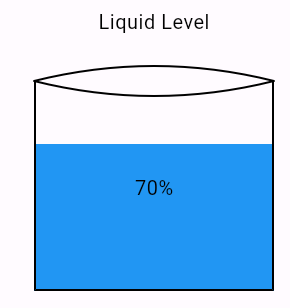
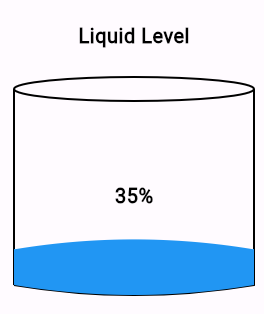
cylinder fine tune

diff --git a/lib/level/widgets/cylinder_tank.dart b/lib/level/widgets/cylinder_tank.dart
@@ -1,4 +1,3 @@
-
 import 'package:flutter/material.dart';
 
 class CylinderTank extends StatelessWidget {
@@ -11,29 +10,23 @@ class CylinderTank extends StatelessWidget {
   final bool shouldAnimate;
   final double fontSize;
   final Color fontColor;
-
+  final FontWeight fontWeight;
   const CylinderTank(
       {super.key,
-      this.height = 200,
-      this.width = 200,
+      this.height = 150,
+      this.width = 150,
       required this.liquidLevel,
       this.liquidColor = Colors.lightBlue,
       this.bottleColor = Colors.black,
       this.shouldAnimate = false,
       this.fontSize = 12,
       this.fontColor = Colors.black,
-      required this.label});
+      required this.label,
+      this.fontWeight = FontWeight.bold});
 
   @override
   Widget build(BuildContext context) {
-    double liqlvl() {
-      double lq = liquidLevel >= 100
-          ? 100
-          : liquidLevel <= 0
-              ? 0
-              : liquidLevel;
-      return lq;
-    }
+  
 
     var top = EyeShapeContainer.opened;
     return Column(
@@ -41,7 +34,8 @@ class CylinderTank extends StatelessWidget {
       children: [
         Text(
           label,
-          style: TextStyle(color: fontColor, fontSize: fontSize),
+          style: TextStyle(
+              color: fontColor, fontSize: fontSize, fontWeight: fontWeight),
         ),
         const SizedBox(
           height: 8,
@@ -52,40 +46,39 @@ class CylinderTank extends StatelessWidget {
           child: Stack(
             alignment: Alignment.bottomCenter,
             children: [
-              Container(
-                height: (liqlvl() / 100) * (height - top),
-                color: liquidColor,
-              ),
               Positioned(
                   bottom: height - (top + top / 2),
                   child: EyeShapeContainer(
                     width: width,
                     topColor: bottleColor,
                   )),
-              Container(
+              TankBody(
+                color: bottleColor,
                 height: height - top,
-                decoration: BoxDecoration(
-                  border: Border(
-                    bottom: BorderSide(
-                      color: bottleColor,
-                      width: 1.0,
-                    ),
-                    left: BorderSide(
-                      color: bottleColor,
-                      width: 1.0,
-                    ),
-                    right: BorderSide(
-                      color: bottleColor,
-                      width: 1.0,
-                    ),
-                  ),
-                ),
+                width: width,
               ),
+              liquidLevel >= 15
+                  ? TankLiq(
+                      liquidColor: liquidColor,
+                      width: width,
+                      liquidLevel: (liqlvl() / 100) * (height - top),
+                      lq: liquidLevel,
+                    )
+                  : Container(
+                      margin: const EdgeInsets.only(bottom: 8),
+                      height: liquidLevel >= 10
+                          ? 5
+                          : liquidLevel <= 0
+                              ? 0
+                              : 3,
+                      color: liquidColor,
+                      width: width / 2,
+                    ),
               Positioned(
                 bottom: height / 2 - top,
                 child: Text(
                   '${liqlvl()}%',
-                  style: TextStyle(color: fontColor, fontSize: fontSize),
+                  style: TextStyle(color: fontColor, fontSize: fontSize,fontWeight: fontWeight),
                 ),
               )
             ],
@@ -94,10 +87,24 @@ class CylinderTank extends StatelessWidget {
       ],
     );
   }
+
+    double liqlvl() {
+      double lq = liquidLevel >= 100
+          ? 100
+          : liquidLevel <= 0
+              ? 0
+              : liquidLevel;
+      return lq;
+    }
 }
 
+
+
+//=============================================
+// Top Open
+
 class EyeShapeContainer extends StatelessWidget {
-  static double opened = 15;
+  static double opened = 12;
   final double width;
   final Color topColor;
   const EyeShapeContainer(
@@ -176,44 +183,141 @@ class EyeShapeBorderPainter extends CustomPainter {
       ..strokeWidth = 1.0;
 
     var path = Path();
-
-    path.moveTo(0, size.height / 2);
-
-    path.quadraticBezierTo(
-      size.width / 4,
-      0,
-      size.width / 2,
-      0,
-    );
-
-    path.quadraticBezierTo(
-      size.width * 3 / 4,
-      0,
-      size.width,
-      size.height / 2,
-    );
-
-    path.quadraticBezierTo(
-      size.width * 3 / 4,
-      size.height,
-      size.width / 2,
-      size.height,
-    );
-
-    path.quadraticBezierTo(
-      size.width / 4,
-      size.height,
-      0,
-      size.height / 2,
-    );
-
-    path.close();
-
+    path.addOval(Rect.fromLTWH(0, 0, size.width, size.height));
     canvas.drawPath(path, paint);
   }
 
   @override
   bool shouldRepaint(CustomPainter oldDelegate) {
     return false;
+  }
+}
+
+
+
+
+//========================================
+// Liquid widget
+
+class TankLiq extends StatelessWidget {
+  final double width;
+  final double liquidLevel;
+  final double lq;
+  final Color liquidColor;
+
+  const TankLiq({
+    super.key,
+    required this.width,
+    required this.liquidLevel,
+    required this.liquidColor,
+    required this.lq,
+  });
+  @override
+  Widget build(BuildContext context) {
+    return Container(
+      margin: EdgeInsets.only(bottom: liquidLevel <= 10 ? 3 : 0),
+      width: width,
+      height: liquidLevel,
+      child: CustomPaint(
+        painter: CurvedBorderPainter(liquidLevel, lq, liquidColor),
+      ),
+    );
+  }
+}
+
+class CurvedBorderPainter extends CustomPainter {
+  final double liqlvl;
+  final double lq;
+  final Color liquidColor;
+
+  CurvedBorderPainter(this.liqlvl, this.lq, this.liquidColor);
+  @override
+  void paint(Canvas canvas, Size size) {
+    final paint = Paint()
+      ..color = liquidColor
+      ..style = PaintingStyle.fill;
+
+    final path = Path()
+      ..moveTo(0, 10)
+      ..quadraticBezierTo(size.width / 2, 0, size.width, 10)
+      ..lineTo(size.width, size.height - 10)
+      ..quadraticBezierTo(size.width / 2, size.height, 0, size.height - 10)
+      ..close();
+    if (lq >= 13) {
+      canvas.drawPath(path, paint);
+    }
+  }
+
+  @override
+  bool shouldRepaint(CustomPainter oldDelegate) {
+    return false;
+  }
+}
+
+//========================================
+// Tank Body widget
+
+class TankBody extends StatelessWidget {
+  final double height;
+  final double width;
+  final Color color;
+
+  const TankBody(
+      {super.key,
+      required this.height,
+      required this.width,
+      required this.color});
+
+  @override
+  Widget build(BuildContext context) {
+    return Container(
+      width: width,
+      height: height,
+      child: CustomPaint(
+        painter: CurvedBorderPainters(color),
+      ),
+    );
+  }
+}
+
+class CurvedBorderPainters extends CustomPainter {
+  final Color color;
+
+  CurvedBorderPainters(this.color);
+  @override
+  void paint(Canvas canvas, Size size) {
+    final paint = Paint()
+      ..color = Colors.transparent
+      ..style = PaintingStyle.fill;
+
+    final path = Path()
+      ..lineTo(0, size.height - 10)
+      ..quadraticBezierTo(
+          size.width / 2, size.height, size.width, size.height - 10)
+      ..lineTo(size.width, 0)
+      ..lineTo(0, 0);
+
+    canvas.drawPath(path, paint);
+
+    final borderPaint = Paint()
+      ..color = color 
+      ..style = PaintingStyle.stroke
+      ..strokeWidth = 1.0; 
+
+    final borderPath = Path()
+      ..moveTo(0, size.height - 10)
+      ..quadraticBezierTo(
+          size.width / 2, size.height, size.width, size.height - 10)
+      ..lineTo(size.width, size.height - 10)
+      ..lineTo(size.width, 0)
+      ..moveTo(0, 0)
+      ..lineTo(0, size.height - 10); 
+
+    canvas.drawPath(borderPath, borderPaint);
+  }
+
+  @override
+  bool shouldRepaint(covariant CustomPainter oldDelegate) {
+    throw UnimplementedError();
   }
 }

diff --git a/lib/main.dart b/lib/main.dart
@@ -153,7 +153,7 @@ class _MyHomePageState extends State<MyHomePage> {
               SizedBox(
                   width: 500,
                   child: CylinderTankSettings(
-                      label: 'Cylinder Tank',
+                      label: 'Liquid Level',
                       settings: const {},
                       onSettingsSaved: (settings) {
                         debugPrint('$settings');

diff --git a/lib/level/widgets/settings/cylindertank_settings.dart b/lib/level/widgets/settings/cylindertank_settings.dart
@@ -41,7 +41,7 @@ class _CylinderTankSettingsState extends State<CylinderTankSettings> {
             shouldAnimate: widget.settings['shouldAnimate'] ?? false,
             fontSize: widget.settings['fontSize'] ?? 10,
             label: widget.label,
-            liquidLevel: 70,
+            liquidLevel: 35,
           ),
         ),
         Column(
